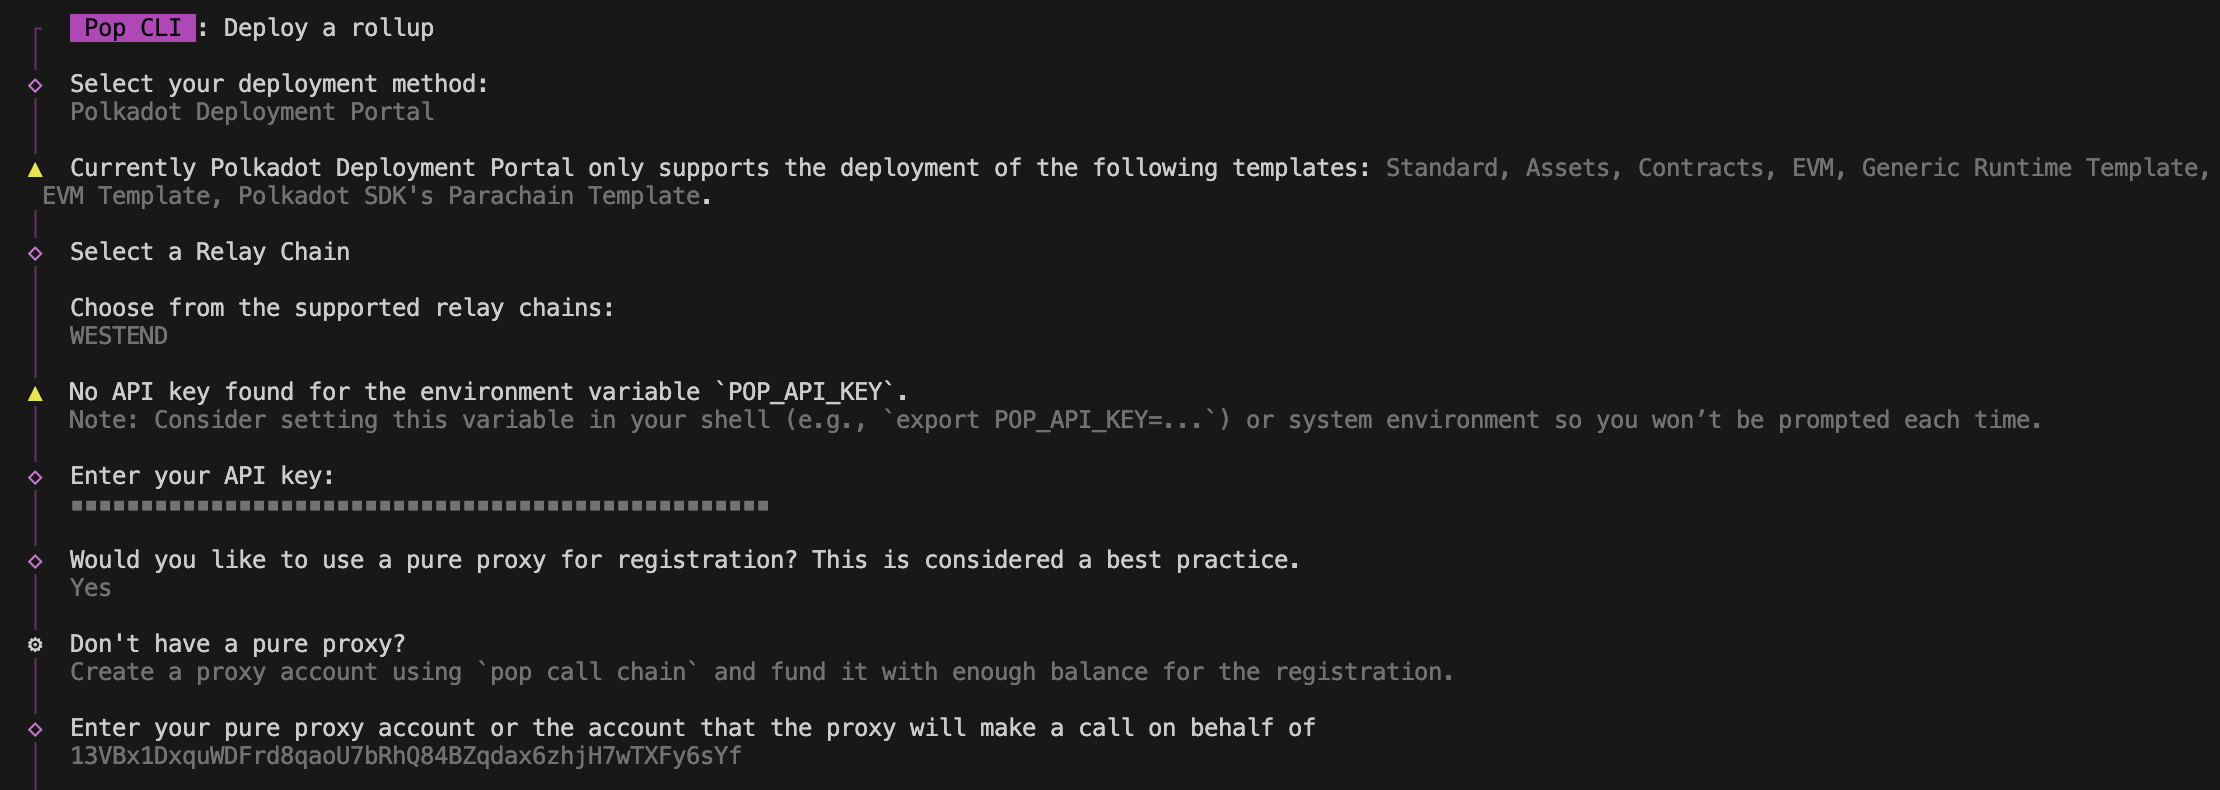
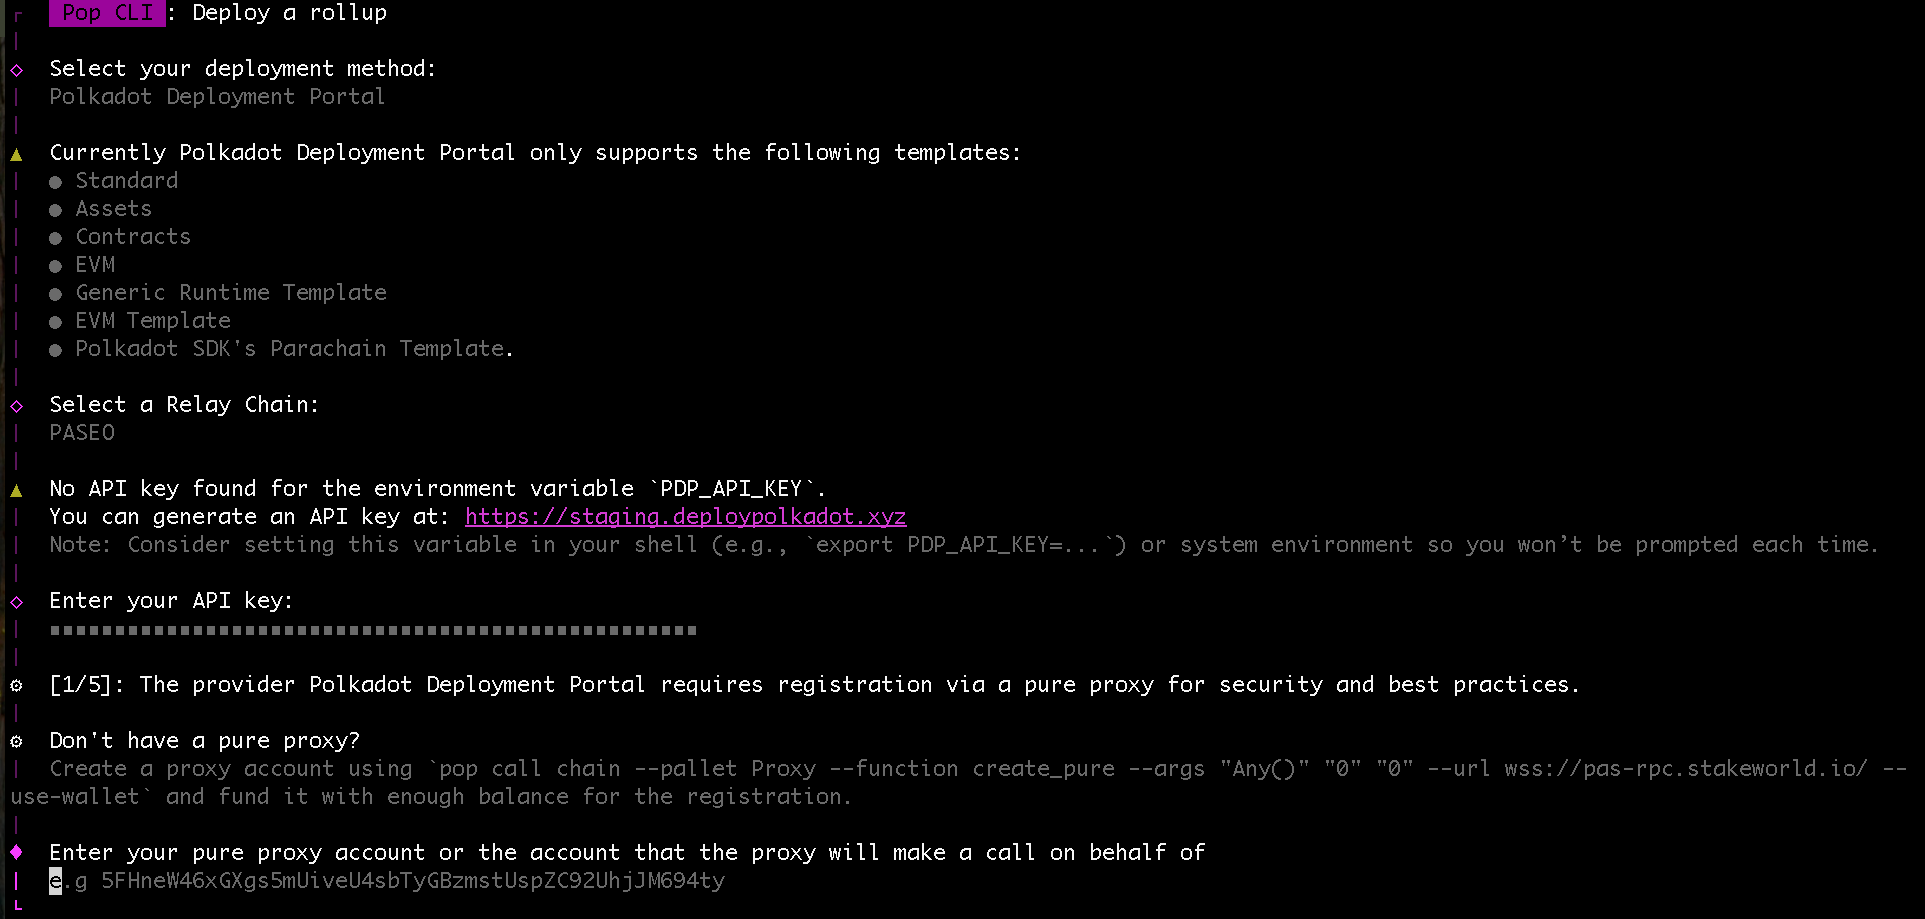
refactor: use PDP in the guide instead of provider and extend information

diff --git a/pop-cli-for-appchains/guides/launch-a-chain/deploy-a-chain-polkadot-deployment-portal.md b/pop-cli-for-appchains/guides/launch-a-chain/deploy-a-chain-polkadot-deployment-portal.md
@@ -1,25 +1,36 @@
 ---
 description:
-  This guide explains how to deploy a chain using an external provider.
+  This guide explains how to deploy a chain using the Polkadot Deployment Portal.
 ---
 
-# Deploy a Chain Using an External Provider
+# Deploy a chain with Polkadot Deployment Portal
 
 Pop CLI integrates an external provider for chain deployment, streamlining the process with seamless automation. It handles registration, as detailed in [Launch a Chain to Paseo](./launch-a-chain-to-paseo.md), and once the chain is registered, Pop CLI completes the deployment by integrating with the provider. The provider manages collators and offers a portal UI for monitoring your chain’s status.
 
-Currently, the only supported deployment provider is the [Polkadot Development Portal](https://www.deploypolkadot.xyz/), which supports a limited set of templates.
+
+### Accessing the Polkadot Deployment Portal (PDP) 
+Start by [signing up to be a beta tester](https://docs.google.com/forms/d/1th3GKJCSjzrmqwzDs62yA1hGUZnQUCPqmaUYLwSiHo4/viewform?edit_requested=true) to request access to the [Polkadot Deployment Portal](https://www.deploypolkadot.xyz/). 
+
+Once accepted, you’ll receive an API key required to deploy through Pop CLI. Keep this key safe, you’ll need it during setup.
+
+> **Note:** Currently, the only supported deployment provider is the [Polkadot Deployment Portal](https://www.deploypolkadot.xyz/), which supports a limited set of templates, built-in collator management, and deployment tracking via its UI.
+
+> **Important:** For now, use the [**staging portal**](https://staging.deploypolkadot.xyz/), this is the version integrated with Pop CLI during the beta phase.
+
+### Starting the Deployment Process 
+Once you have your API key and access to the Polkadot Deployment Portal, you're ready to deploy your chain.
 
 Execute the following command to start the interactive deployment process:
 ```shell
 pop up
 ```
-And follow the interactive guide 
+Follow the interactive guide:
 
-<figure><img src="../../.gitbook/assets/pdpflow.png" alt="pop up"><figcaption><p></p></figcaption></figure>
+<figure style="text-align: center; margin: 1em 0;"><img src="../../.gitbook/assets/pdpflow.png" alt="pop up" style="max-width: 100%; height: auto; display: block; margin: 0 auto;"><figcaption style="margin-top: 0.5em; font-style: italic; color: #666; text-align: center;">pop up flow</figcaption></figure>
 
-At the end of the process, Pop CLI will display the URL to the external provider's portal, where you can monitor the status of your deployment. For example, after a successful deployment, the [Polkadot Development Portal](https://www.deploypolkadot.xyz/), as shown in the image below.
+At the end of the process, Pop CLI will display the URL to the external provider's portal, where you can monitor the status of your deployment. For example, after a successful deployment, the [Polkadot Development Portal](https://www.deploypolkadot.xyz/) provides a UI like the one shown below:
 
-<figure><img src="../../.gitbook/assets/pdpui.png" alt="polkadot development portal"><figcaption><p></p></figcaption></figure>
+<figure style="text-align: center; margin: 1em 0;"><img src="../../.gitbook/assets/pdpui.png" alt="Polkadot Development Portal UI" max-width: 100%; height: auto; display: block; margin: 0 auto;><figcaption style="margin-top: 0.5em; font-style: italic; color: #666;">Polkadot Development Portal UI</figcaption></figure>
 
 During the process, Pop CLI will prompt you for two important choices:
 
@@ -27,7 +38,13 @@ During the process, Pop CLI will prompt you for two important choices:
 2. Whether to build the runtime deterministically.
 
 #### What is a Pure Proxy?
-A pure proxy is an account without private keys, controlled entirely by a designated any proxy.
+A pure proxy is an account without private keys, controlled entirely by a designated proxy.
+
+The proxy defines what kind of actions the controller account is allowed to perform on behalf of the pure proxy. There are different [proxy type](https://wiki.polkadot.network/learn/learn-proxies/#proxy-types), each with a specific scope of permissions.
+
+The `ParaRegistration` proxy is designed to limit permissions strictly to paraID reservation and rollup registration, and is recommended for this use case.
+
+> **Note**: `ParaRegistration` is a newly introduced proxy type. Before its availability, the common approach was to use the `Any` proxy as a more general alternative.
 
 *Why Use a Pure Proxy?*
 

diff --git a/pop-cli-for-appchains/guides/launch-a-chain/README.md b/pop-cli-for-appchains/guides/launch-a-chain/README.md
@@ -8,5 +8,5 @@ A typical development workflow for launching a chain on Polkadot:&#x20;
 
 1. [Launch a Development Network](running-your-parachain.md) with predefined chains.
 2. [Launch a Chain on Paseo](launch-a-chain-to-paseo.md).
-3. [Deploy a Chain Using an External Provider](deploy-a-chain-external-provider.md).
+3. [Deploy a Chain With Polkadot Deployment Portal](deploy-a-chain-polkadot-deployment-portal.md).
 4. Launch a Chain on Polkadot (same as Paseo).
